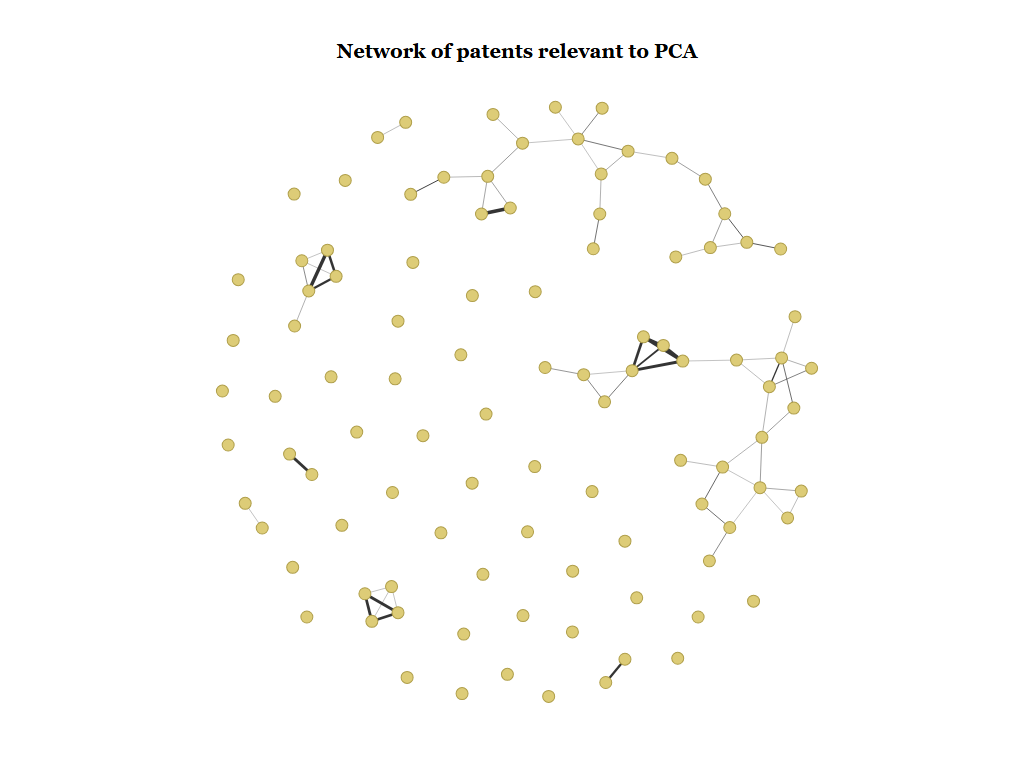
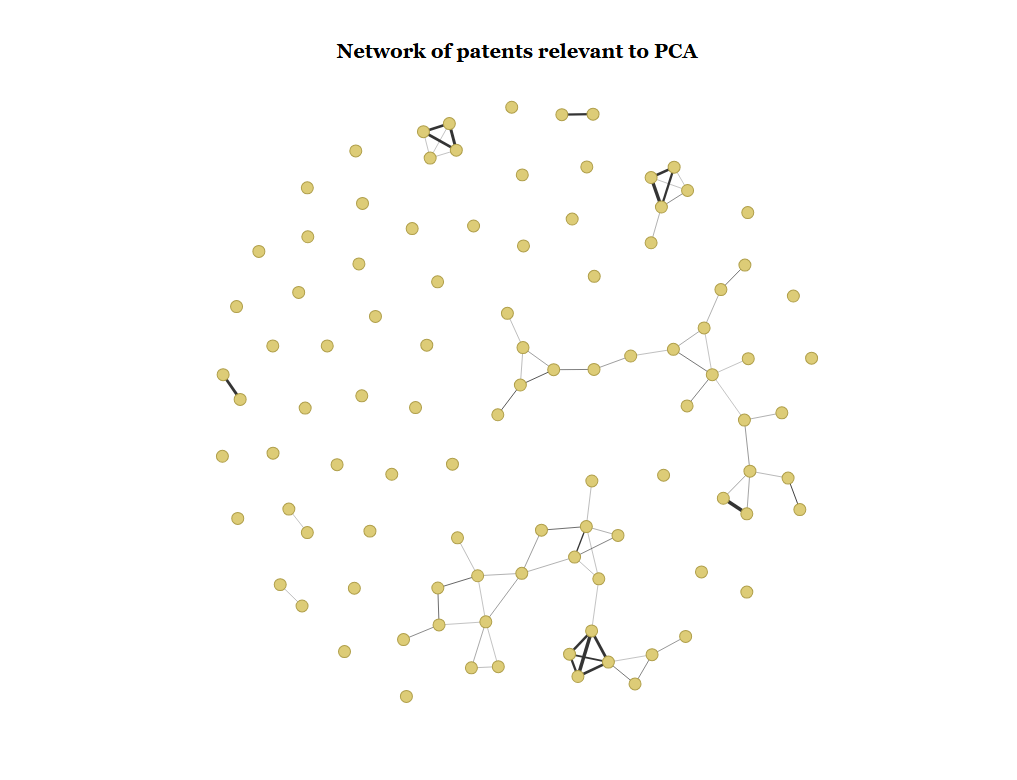
generated files

diff --git a/docs/articles/citation-networks.html b/docs/articles/citation-networks.html
@@ -180,7 +180,8 @@ to identify the patents that relate to PCA.</p>
 <span><span class="va">citing_query</span> <span class="op">&lt;-</span> <span class="va">qry_funs</span><span class="op">$</span><span class="fu">eq</span><span class="op">(</span>patent_id <span class="op">=</span> <span class="va">patent_ids</span><span class="op">)</span></span>
 <span><span class="va">cited_query</span> <span class="op">&lt;-</span> <span class="va">qry_funs</span><span class="op">$</span><span class="fu">eq</span><span class="op">(</span>citation_patent_id <span class="op">=</span> <span class="va">patent_ids</span><span class="op">)</span></span>
 <span></span>
-<span><span class="co"># Create a list of fields to pull from the API</span></span>
+<span><span class="co"># Create a list of fields to pull from the API.  Note that, with a recent API chanage,</span></span>
+<span><span class="co"># these aren't the only fields we receive back from the API</span></span>
 <span><span class="va">fields</span> <span class="op">&lt;-</span> <span class="fu"><a href="https://rdrr.io/r/base/c.html" class="external-link">c</a></span><span class="op">(</span></span>
 <span>  <span class="st">"patent_id"</span>,</span>
 <span>  <span class="st">"citation_patent_id"</span></span>
@@ -197,6 +198,7 @@ to identify the patents that relate to PCA.</p>
 <span><span class="op">)</span></span>
 <span></span>
 <span><span class="co"># Unnest the data found in the two lists of columns</span></span>
+<span><span class="co"># (citation_sequence being a field we didn't request)</span></span>
 <span><span class="va">res_lst</span> <span class="op">&lt;-</span> <span class="fu"><a href="../reference/unnest_pv_data.html">unnest_pv_data</a></span><span class="op">(</span><span class="va">res</span><span class="op">$</span><span class="va">data</span>, pk <span class="op">=</span> <span class="st">"patent_id"</span><span class="op">)</span></span>
 <span><span class="va">res_lst</span></span>
 <span><span class="co">#&gt; List of 1</span></span>
@@ -231,6 +233,7 @@ frame of nodes and a data frame of edges.</p>
 <span><span class="va">edges</span> <span class="op">&lt;-</span></span>
 <span>  <span class="va">res_lst</span><span class="op">$</span><span class="va">us_patent_citations</span> <span class="op"><a href="https://magrittr.tidyverse.org/reference/pipe.html" class="external-link">%&gt;%</a></span></span>
 <span>  <span class="fu"><a href="https://dplyr.tidyverse.org/reference/filter-joins.html" class="external-link">semi_join</a></span><span class="op">(</span>x <span class="op">=</span> <span class="va">.</span>, y <span class="op">=</span> <span class="va">.</span>, by <span class="op">=</span> <span class="fu"><a href="https://rdrr.io/r/base/c.html" class="external-link">c</a></span><span class="op">(</span><span class="st">"citation_patent_id"</span> <span class="op">=</span> <span class="st">"patent_id"</span><span class="op">)</span><span class="op">)</span> <span class="op"><a href="https://magrittr.tidyverse.org/reference/pipe.html" class="external-link">%&gt;%</a></span></span>
+<span>  <span class="fu"><a href="https://dplyr.tidyverse.org/reference/select.html" class="external-link">select</a></span><span class="op">(</span><span class="va">patent_id</span>, <span class="va">citation_patent_id</span><span class="op">)</span> <span class="op"><a href="https://magrittr.tidyverse.org/reference/pipe.html" class="external-link">%&gt;%</a></span>  <span class="co"># discard citation_sequence we didn't ask for</span></span>
 <span>  <span class="fu"><a href="https://magrittr.tidyverse.org/reference/aliases.html" class="external-link">set_colnames</a></span><span class="op">(</span><span class="fu"><a href="https://rdrr.io/r/base/c.html" class="external-link">c</a></span><span class="op">(</span><span class="st">"from"</span>, <span class="st">"to"</span><span class="op">)</span><span class="op">)</span></span>
 <span></span>
 <span><span class="va">nodes</span> <span class="op">&lt;-</span></span>
@@ -246,8 +249,8 @@ frame of nodes and a data frame of edges.</p>
 <span>  main <span class="op">=</span> <span class="st">"Citations among patent citation analysis (PCA) patents"</span></span>
 <span><span class="op">)</span> <span class="op"><a href="https://magrittr.tidyverse.org/reference/pipe.html" class="external-link">%&gt;%</a></span></span>
 <span>  <span class="fu"><a href="https://rdrr.io/pkg/visNetwork/man/visEdges.html" class="external-link">visEdges</a></span><span class="op">(</span>arrows <span class="op">=</span> <span class="fu"><a href="https://rdrr.io/r/base/list.html" class="external-link">list</a></span><span class="op">(</span>to <span class="op">=</span> <span class="fu"><a href="https://rdrr.io/r/base/list.html" class="external-link">list</a></span><span class="op">(</span>enabled <span class="op">=</span> <span class="cn">TRUE</span><span class="op">)</span><span class="op">)</span><span class="op">)</span> <span class="op"><a href="https://magrittr.tidyverse.org/reference/pipe.html" class="external-link">%&gt;%</a></span></span>
-<span>  <span class="fu"><a href="https://rdrr.io/pkg/visNetwork/man/visIgraphLayout.html" class="external-link">visIgraphLayout</a></span><span class="op">(</span><span class="op">)</span></span>
-<span><span class="co">#&gt; Error in if (length(nms) != n || any(nms == "")) stop("'options' must be a fully named list, or have no names (NULL)"): missing value where TRUE/FALSE needed</span></span></code></pre></div>
+<span>  <span class="fu"><a href="https://rdrr.io/pkg/visNetwork/man/visIgraphLayout.html" class="external-link">visIgraphLayout</a></span><span class="op">(</span><span class="op">)</span></span></code></pre></div>
+<p><img src="figure/citationvis-1.png"></p>
 <p>It looks like several of the patents cite patent number 6,499,026,
 perhaps indicating that this patent contains technology that is
 foundational to the field. However, when we hover over the nodes we see
